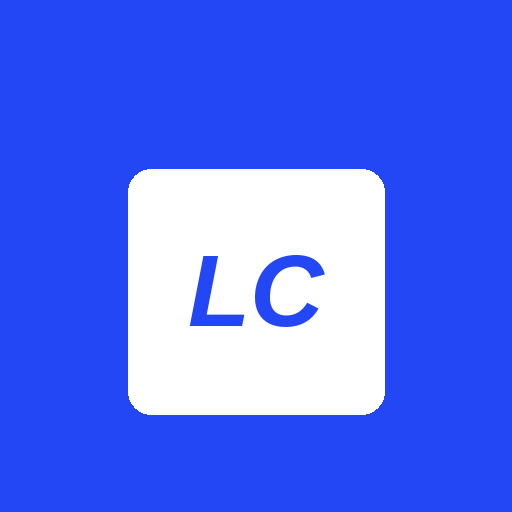
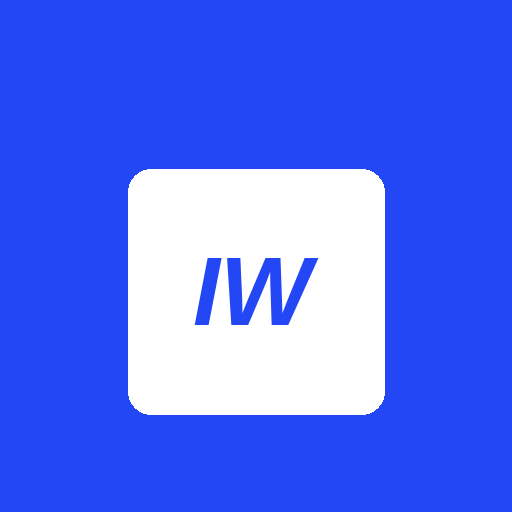
Rename app to IELTS Words and add Android APK build
Claude-Session: https://claude.ai/code/session_014wCKnwZyBPgziZHkpVpqCb

Changed region(s): [[0.375, 0.5, 0.625, 0.6562]]

diff --git a/index.html b/index.html
@@ -7,7 +7,7 @@
 <meta name="theme-color" content="#0F1720" media="(prefers-color-scheme: dark)">
 <meta name="apple-mobile-web-app-capable" content="yes">
 <meta name="mobile-web-app-capable" content="yes">
-<meta name="apple-mobile-web-app-title" content="Listening">
+<meta name="apple-mobile-web-app-title" content="IELTS Words">
 <link rel="manifest" href="manifest.webmanifest">
 <link rel="icon" href="icon-192.png" type="image/png">
 <link rel="apple-touch-icon" href="icon-192.png">
@@ -16,7 +16,7 @@
   body { margin: 0; }
   [hidden] { display: none !important; }
 </style>
-<title>Listening Cards</title>
+<title>IELTS Words</title>
 <link rel="stylesheet" href="https://fonts.googleapis.com/css2?family=Bricolage+Grotesque:opsz,wght@12..96,600;12..96,800&family=IBM+Plex+Sans:wght@400;500;600&family=IBM+Plex+Mono:wght@500&display=swap">
 <style>
   /* Layout: one centered column, phone-first. Card on top, actions under it, tools below. */
@@ -142,7 +142,7 @@
   <header>
     <div>
       <div class="eyebrow">IELTS Listening · Part 2</div>
-      <h1>Listening Cards</h1>
+      <h1>IELTS Words</h1>
     </div>
     <div class="score"><b id="knownCount">0</b><span id="totalLabel">/ 0 bilaman</span></div>
   </header>

diff --git a/apk/www/index.html b/apk/www/index.html
@@ -1,0 +1,3 @@
+<!doctype html>
+<html lang="uz"><head><meta charset="utf-8"><meta name="viewport" content="width=device-width, initial-scale=1"><title>IELTS Words</title></head>
+<body style="font-family:sans-serif;padding:2rem">Yuklanmoqda... Internetni tekshiring.</body></html>

diff --git a/sw.js b/sw.js
@@ -1,4 +1,4 @@
-var CACHE = "listening-cards-v1";
+var CACHE = "ielts-words-v2";
 var CORE = ["./", "index.html", "manifest.webmanifest", "icon-192.png", "icon-512.png"];
 
 self.addEventListener("install", function (e) {
